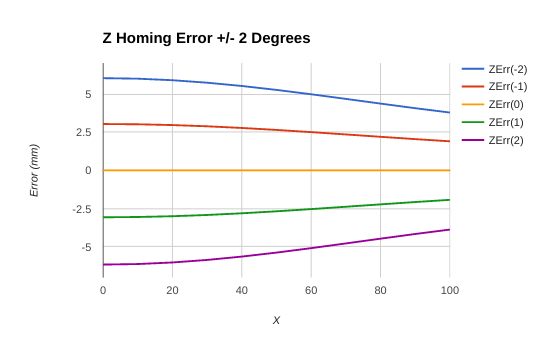
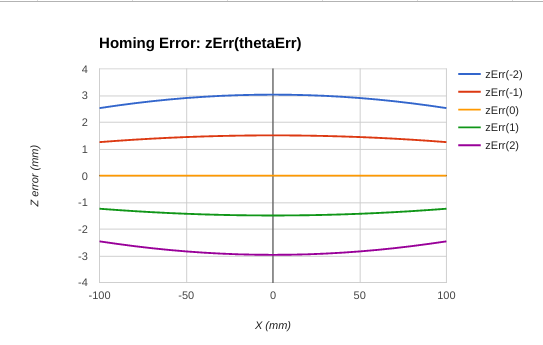
homing

diff --git a/XP008-Homing-Error/README.md b/XP008-Homing-Error/README.md
@@ -48,7 +48,7 @@ variation is quite possible. Indeed, the FPD beta kit and
 LooseCanon designs most probably differ in their homing angles by 
 this amount, perhaps more.
 
-Let's consider a straight path from (0,0,-50) to (100,0,-50).
+Let's consider a straight path from (-100,0,-70) to (100,0,-70).
 This is a 100mm line along the X-axis. A system homing error
 of +/- 2 degrees affects all three XYZ axes. The error impacts
 Z severely and leads to the commonly reported "bowl-shaped error".
@@ -61,16 +61,18 @@ of our supposedly straight path. A two degree error has even
 greater effect on Z at 100mm from the origin. The error is also
 non-linear and it is indeed "bowl shaped".
 
-The error also affects the X and Y axes. The effect on the X-axis
-is quite pronounced and leads to non-linear XY motion (i.e., "twisted bowls"):
+The error also affects the X and Y axes. 
+The effect on the Y-axis
+is quite startling and leads to a surprising non-linear curve:
 
-![](https://github.com/firepick1/fpd-vision/blob/master/XP008-Homing-Error/img/XHomingError.png)
+![](https://github.com/firepick1/fpd-vision/blob/master/XP008-Homing-Error/img/YHomingError.png)
 
 Although disturbing by its magnitude, rotational delta system homing error
-is actually easy to correct. All we need to do is change the z-offset
-of our rotational delta models to cancel the error.
+is actually easy to correct. All we need to do is introduce a homing
+angle error parameter for each FPD motor axis.
 
 Calibration is also quite robust because the system homing error
-affects the X-axis and can therefore be easily measured with a
+of a horizontal line on the X-axis bends the line up or down
+on the Y-axis and can therefore be easily measured with a
 camera mounted on the effector.
 
